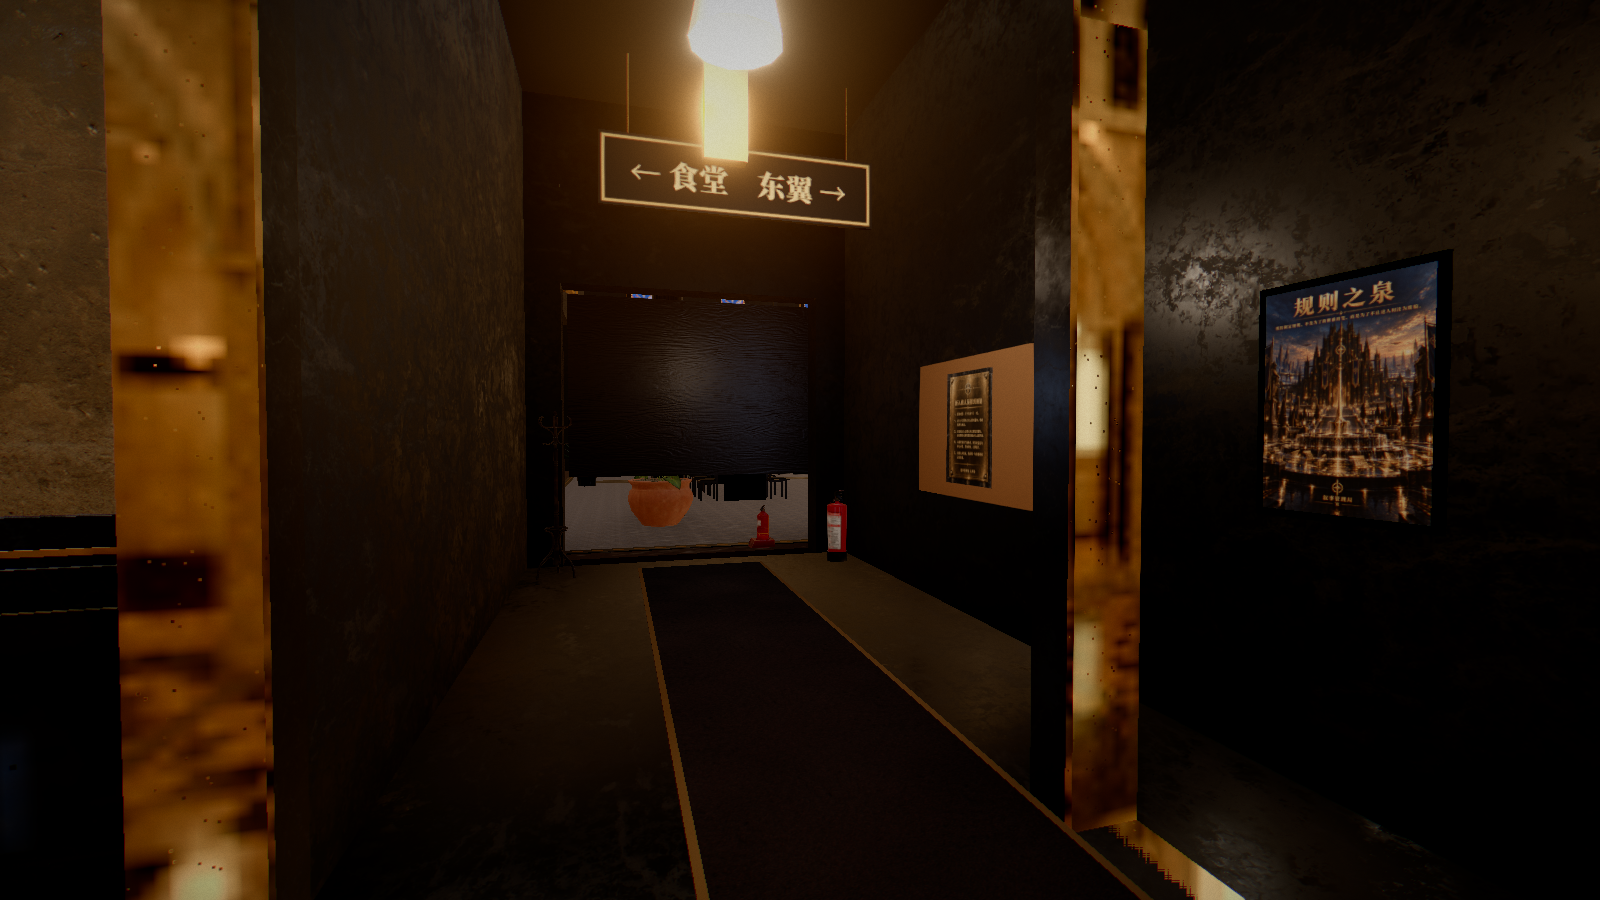
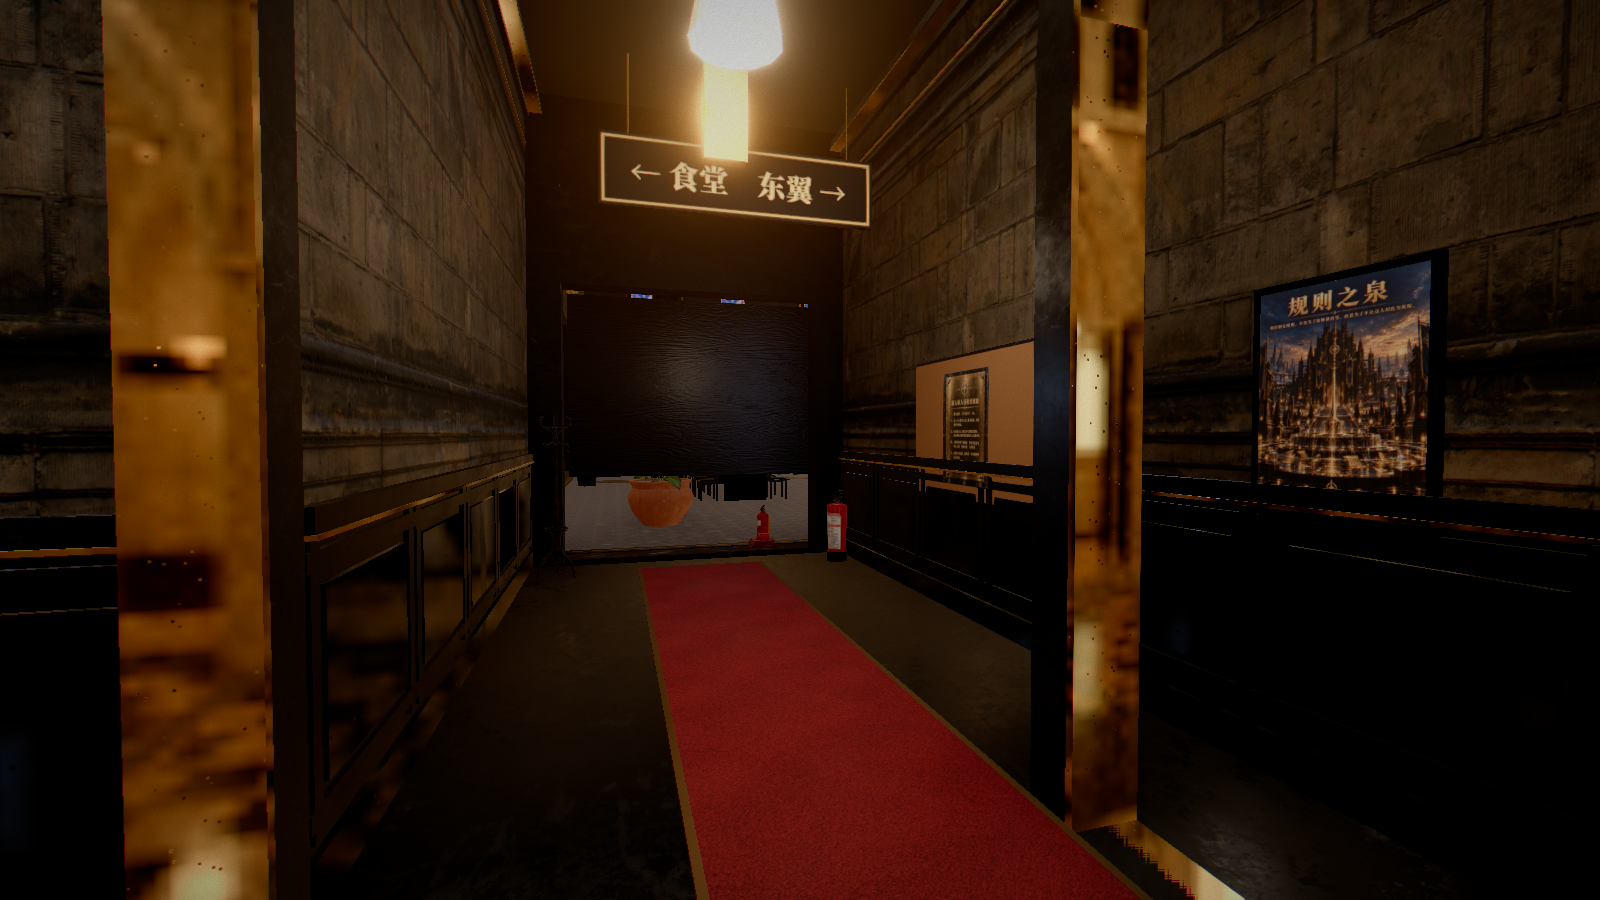
批次12 验收：Actions 截图 29+13 张入库 screenshots/r3（含新机位 ec_vit_a/b）；HANDOFF 批次12 验收结果与 Actions 截图用法；shots.yml 去掉无效的 shots-out 推送步骤（统一走 artifact）；tools/gh_shots_fetch.sh

diff --git a/docs/HANDOFF.md b/docs/HANDOFF.md
@@ -171,6 +171,40 @@
 3. plaza / facade 高画质截图贴着内存上限：可考虑截图模式上传后释放贴图 CPU 端图片，或先拍低一档画质。
 4. tristat.mjs 拆 pass 会让 plaza 崩，测 plaza 时只用截图会话的整帧统计。
 
+## R3 批次12 验收（2026-10-30 21:00 CST 接手；截图改用 GitHub Actions 托管 runner）
+### Actions 截图（本机 8 GB 拍不了 1600×900 high → 已解决）
+- `.github/workflows/shots.yml`「Screenshots」：**只有 workflow_dispatch**（无 schedule、无 push 触发，不影响 pages.yml）。输入 `shots`（分号分隔，每项 `组:机位[:额外参数]`，如 `after:cs_r3;before:cs_r3:&r3off=citizen_service`）、`quality`（默认 high）、`width`/`height`（默认 1600×900）、`frames`（默认 8）。
+- 每项一个矩阵任务（各自一台 ubuntu-latest：4 vCPU / 16 GB，max-parallel 20）：checkout → npm ci → vite build → `npx playwright-core install --with-deps chromium-headless-shell`（与 playwright-core 同版本，SwiftShader）→ `node tools/shot.mjs out/<组> <机位> --fresh 1 --stimeout 3000000` → upload-artifact `shot-<组>-<机位>`（png + log，保留 14 天）。
+- 触发：`apicall github workflow_dispatch owner=DisenthrallClaude repo=Narrative-Bureau-3D workflow_id=shots.yml ref=main inputs='{"shots":"after:cs_r3"}'`（本机没有 gh CLI；返回 run id）。取图：`bash tools/gh_shots_fetch.sh <run_id> <目标目录>`（GET runs/<id>/artifacts → artifacts/<id>/zip，凭据 provider github；可重复跑，只下新完成的）。作业日志只有在作业结束后才能取（进行中 404 BlobNotFound）。
+- 实测：runner 上内存峰值远低于 16 GB，不再 OOM；单张 165–535 s（首帧着色器编译 100–320 s，之后 `page.screenshot` 要等 SwiftShader GPU 进程把排队的 16 帧画完，cs_r3 约 330 s——**原 300 s 截图超时就是第一次试跑失败的原因**，现 `--stimeout` 可配）。29 张一批约 25 分钟全部完成。
+- 第一次试跑 run 41059933188 失败（截图超时 300 s）→ 修 `--stimeout` 后 run 41062263114 / 41062342434 成功。曾试「推到 shots-out 分支」取图，因 /tmp 仓库没设 git 身份没推成，已删掉该步骤，统一用 artifact。
+### 本批出图（1600×900 high，全部 Actions）
+- run 41062342434（29 张，提交 6e585e9）：改后 cs_r3/cs_r3_b/cs_top、ec_r3/ec_r3_b/ec_corner、ec_vit_a/ec_vit_b（新机位：东廊展柜特写）、lobby_r3/lobby_r3_b/lobby_4f、es_land/es_land_b、lib_r3/lib_r3_b、pub_r3、floor3_legal、dorm_lounge、director_r3；改前（`&r3off=`）cs ×3、lib ×2、lobby ×3、es ×2。原图 work/r3/b12/gh1/{before,after}/。
+- 看图修完重拍：run 41065950500（cs ×3、ec ×5，提交 e68d53b）、41066136485（lobby ×3，b2b7976）、41066327512（lib ×2，1936a35）→ work/r3/b12/gh2/after/。
+- 定稿截图已拷入 screenshots/r3/（同名覆盖；ec_vit_a / ec_vit_b 为新增）。
+### 看图检查与修复
+1. **吊牌金字远处消失**：确认（cs_r3 远处「候号区」「填单区」、cs_r3_b 西墙大标题缺笔画）。根因 = alphaTest 0.5 + mipmap 把细笔画平均到 0.5 以下被裁；另外字面离底板只 2 mm，远处深度精度也不够。修（gothic.js goldText，全局 42 处）：改 alpha 混合（transparent、depthWrite false、alphaTest 0.02）+ polygonOffset −2/−4；吊牌字贴图 96→192、描边 0.022→0.03。重拍后远处吊牌笔画连续、可辨，但 15 m 外的小吊牌仍偏淡（字本身只有 0.26 m 高）。
+2. **大理石 z-fighting**：cs_r3 / cs_r3_b / cs_top 三张都没看到闪烁条纹或交错斑块（与上批数值检查一致），不用改。
+3. **东廊线脚对墙裙**：确认没对齐——large_sandstone_blocks 贴图的线脚带在 v 0.88–0.97，不在接缝处；原 UV 偏移 2.84 把接缝放在墙裙顶，墙裙顶上露出的是贴图底边暗带，线脚飘在上方。修（surface.js）：upOff 2.84→2.48，线脚带下沿正压墙裙顶 y+1.36（第二道 y+4.36）。重拍 ec_r3_b 右墙线脚已贴墙裙顶。
+4. **屏风磨砂玻璃排序**：没有看到排序穿插，真正的问题是「像灯箱板」——不透明度 0.55 + 近白色在球吊灯下发白，后面什么都透不出来。修（dress.js r3_frosted）：0xc4ccc8、opacity 0.3、roughness 0.4。重拍后能透出后面的座椅和人。
+5. **展柜旧相机 / 摊开的书**：书确认转了 90°（模型书脊沿本地 x，原摆法跨页沿柜深、书脊平行柜面）→ yaw +90°（b919bf8）；旧相机看特写朝向正常（镜头朝外、背带摊开），没改。**另发现**高罩展柜（glassH>0.22）整块铜顶板 + 整块端板把玻璃罩盖成了不透明木盒 → 改四角铜立柱 + 顶面铜边框（r3plan.js vitrine）；怀表原来立着 → 平放（rx −90°）。
+6. **4 位排队市民**：原在候号座椅排间站着（cs_top 看像在长椅间罚站）→ 改到 1/3/4 号窗台前办理（两只圆凳之间）+ 3 号窗一米线内侧一位等候（eastwing.js + r3plan 固定锚点同步；r3plan_draw citizen_service 297 件 0 错误）。
+7. **地毯颜色**：法务处长室花边地毯边框蓝黑→深牛血红、发布厅签到红绳道地毯更红、局长室/宿舍棋牌区红毯正常偏红；东廊红毯读得出红色。发布厅左侧大片深蓝是 `r3_carpet`（设计如此，没动）。**更正上批**：`r3_carpetRed` 的「阅览环」在定稿厅书环（abyss_core / planAbyss），不在藏书阁；本批没拍定稿厅。
+8. 顺带：电梯厅水磨石心 r3_corr（顶灯下近白）→ 新材质 r3_terrLobby 暖灰；藏书阁中心环同换；去掉藏书阁入口木地板上的白色磨损贴花（像口香糖渍）。
+### 对比图（work/r3/，cmp12.py：每行改前 ↔ 改后，标平均亮度）
+- cmp12_citizen_service.jpg、cmp12_east_cloister.jpg、cmp12_lobby.jpg、cmp12_east_stair.jpg、cmp12_library.jpg、cmp12_carpet.jpg（地毯的「改前」是 screenshots/r3 里批次7 之前的旧图，墙布等其它改动也混在里面，只能看地毯本身）。
+### 诚实评估（每区）
+- **市民服务大厅**：结构（引导台 / 窗口分流栏杆 / 屏风围合候号区 / 填单岛 / 5 号窗等候）立起来了，比批次11 中部空地明显充实；收尾后屏风透得出后面、市民站到窗口前、远处吊牌笔画可辨。**仍有问题**：① 西墙大标题「市民服务大厅 · 污染举报」被墙垛切成两截、远看仍缺笔画；② 5 号窗等候区两排长椅间地面有几块黑色弧形（cs_r3_b 左下，疑似长椅铸铁腿在正上方球灯下的投影，也可能是模型件，未查清）；③ 顶棚格栅 + 大面黑墙仍偏「机关食堂」而非庄重大厅；④ 人物是低模（白脸）。按 R3 标准：**基本合格，细节未达 3A**。
+- **东廊**：红毯终于读得出红、方石墙 + 线脚贴墙裙顶后墙面层次对了、展柜成了真正的玻璃罩（书/怀表/墨水瓶/相机/印章看得清）。平均亮度比批次11 低（43→37、36→30，因为方石墙比原石灰墙暗），走廊整体偏暗。拐角食堂门洞上半挂着一块黑色板（ec_corner，未查）。**合格**。
+- **电梯厅（3F/4F）**：只有长凳、铜壁灯、花钵、导览牌，四壁和顶棚是原来的粗毛石（像山洞），水磨石心压暗后（底部亮度 136→109）好一些但仍偏亮。**不合格**——需要换墙面（护墙板 + 石材）和顶棚，才谈得上庄重。
+- **东楼梯**：平台铜牌、扶手、壁灯到位，改前改后差别中等；**基本合格**。
+- **藏书阁**：圆形书墙 + 中心讲经台 + 外环阅览桌，收尾后中心环不再刺白、入口白斑去掉，是本批最好的区。**合格**。
+- **地毯换色**：法务处长室边框不再蓝黑、东廊/局长室/棋牌区红毯偏红正常；发布厅签到道变红但大面深蓝 r3_carpet 未动。**合格**（对比的「改前」图较旧，只能看地毯）。
+### 未做
+- 定稿厅（r3_carpetRed 书环）没拍；阅卷中心 exam_center 未开工；电梯厅墙面/顶棚重做；西墙大标题位置；5 号窗等候区黑色弧形；东廊拐角黑板。
+- 走查 walk.mjs 本批没重跑（改动只涉及陈设/材质/锚点位置；市民位置变了，走查若有「市民」热点需复核）。
+- InstaBox：本批**没用**（Actions 跑通），没有签发任何 ssh-token；work/r3/.ibtok_*.json 不存在。
+
 ## R3 批次12 收尾（2026-10-30 19:20 CST 接手；批次12 主体见提交 66c8004 / 68a0b27 / 6c7dc1f / 9e73c28 / e0aa764 / f9445e7）
 ### 完成
 1. **窗光 404 修复**（3dc9f9b）：r3plan.js floor3_office / floor2_liaison / floor2_pub 的「窗光」条目补 `light: true`（原来只有 `win: true`，r3build 把它当模型加载 `assets/models/undefined.glb`）。
